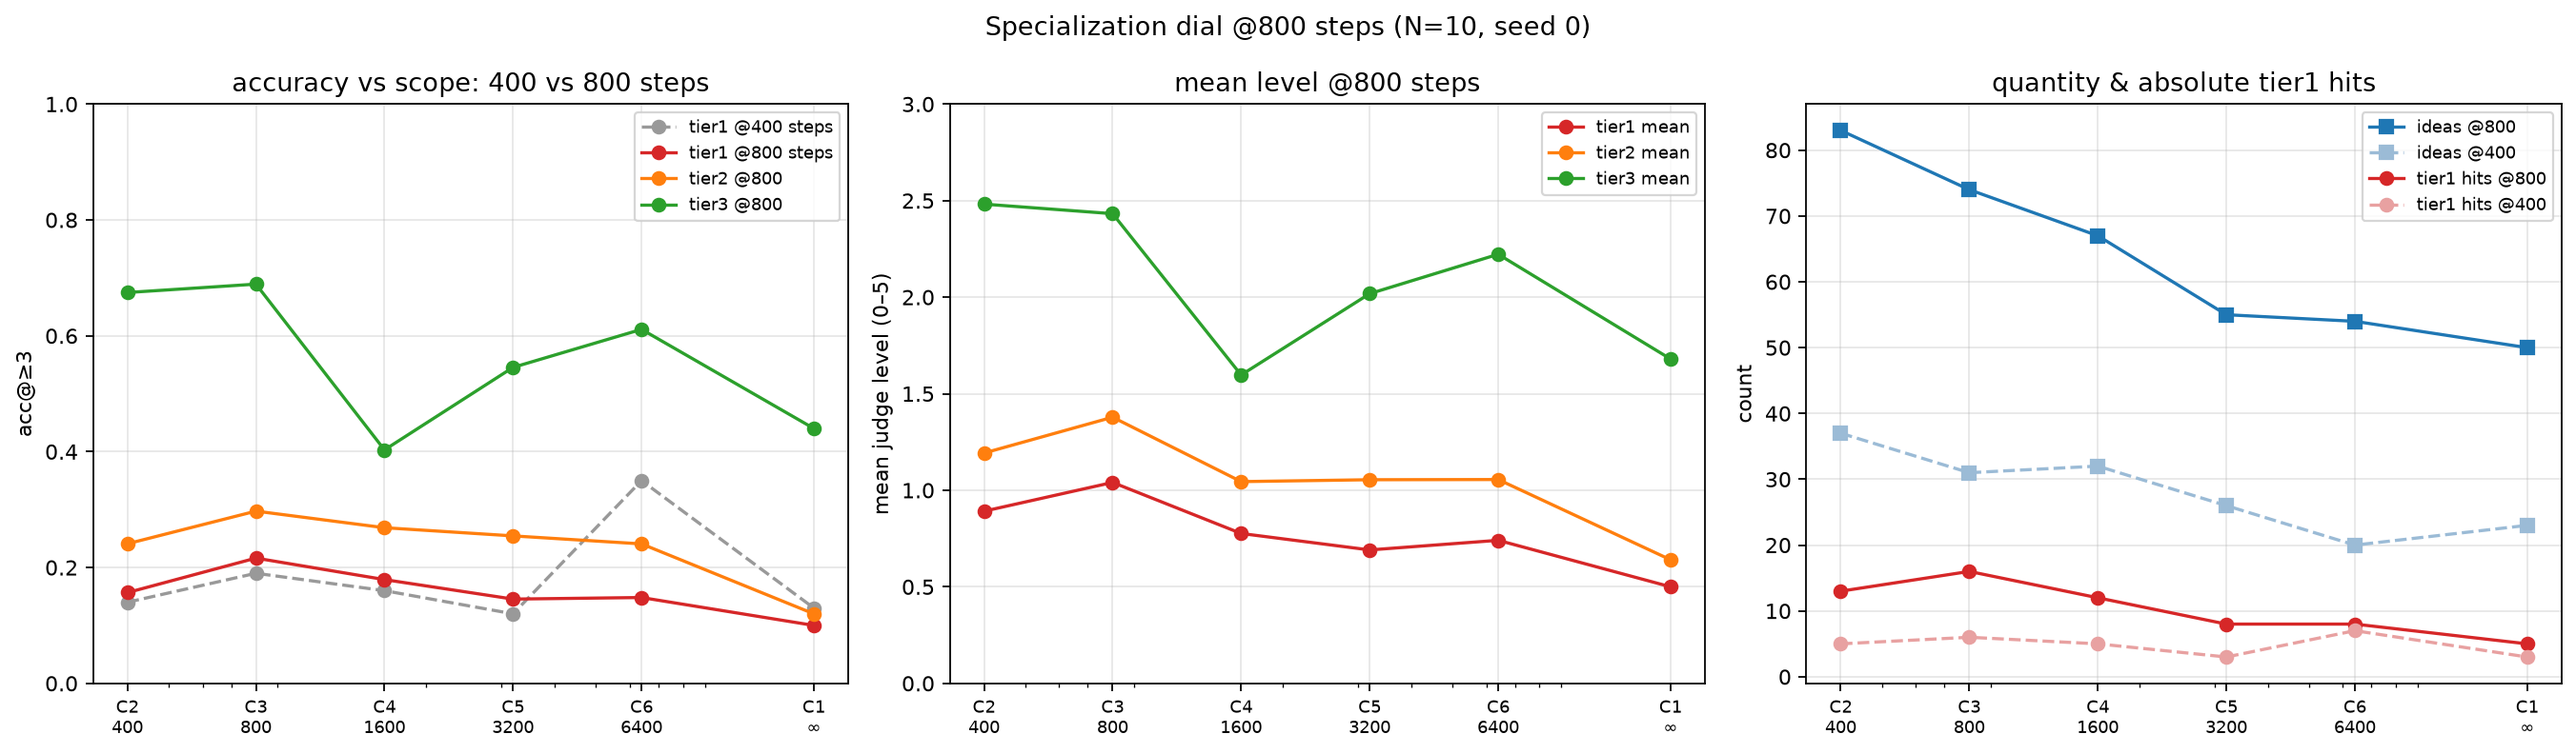
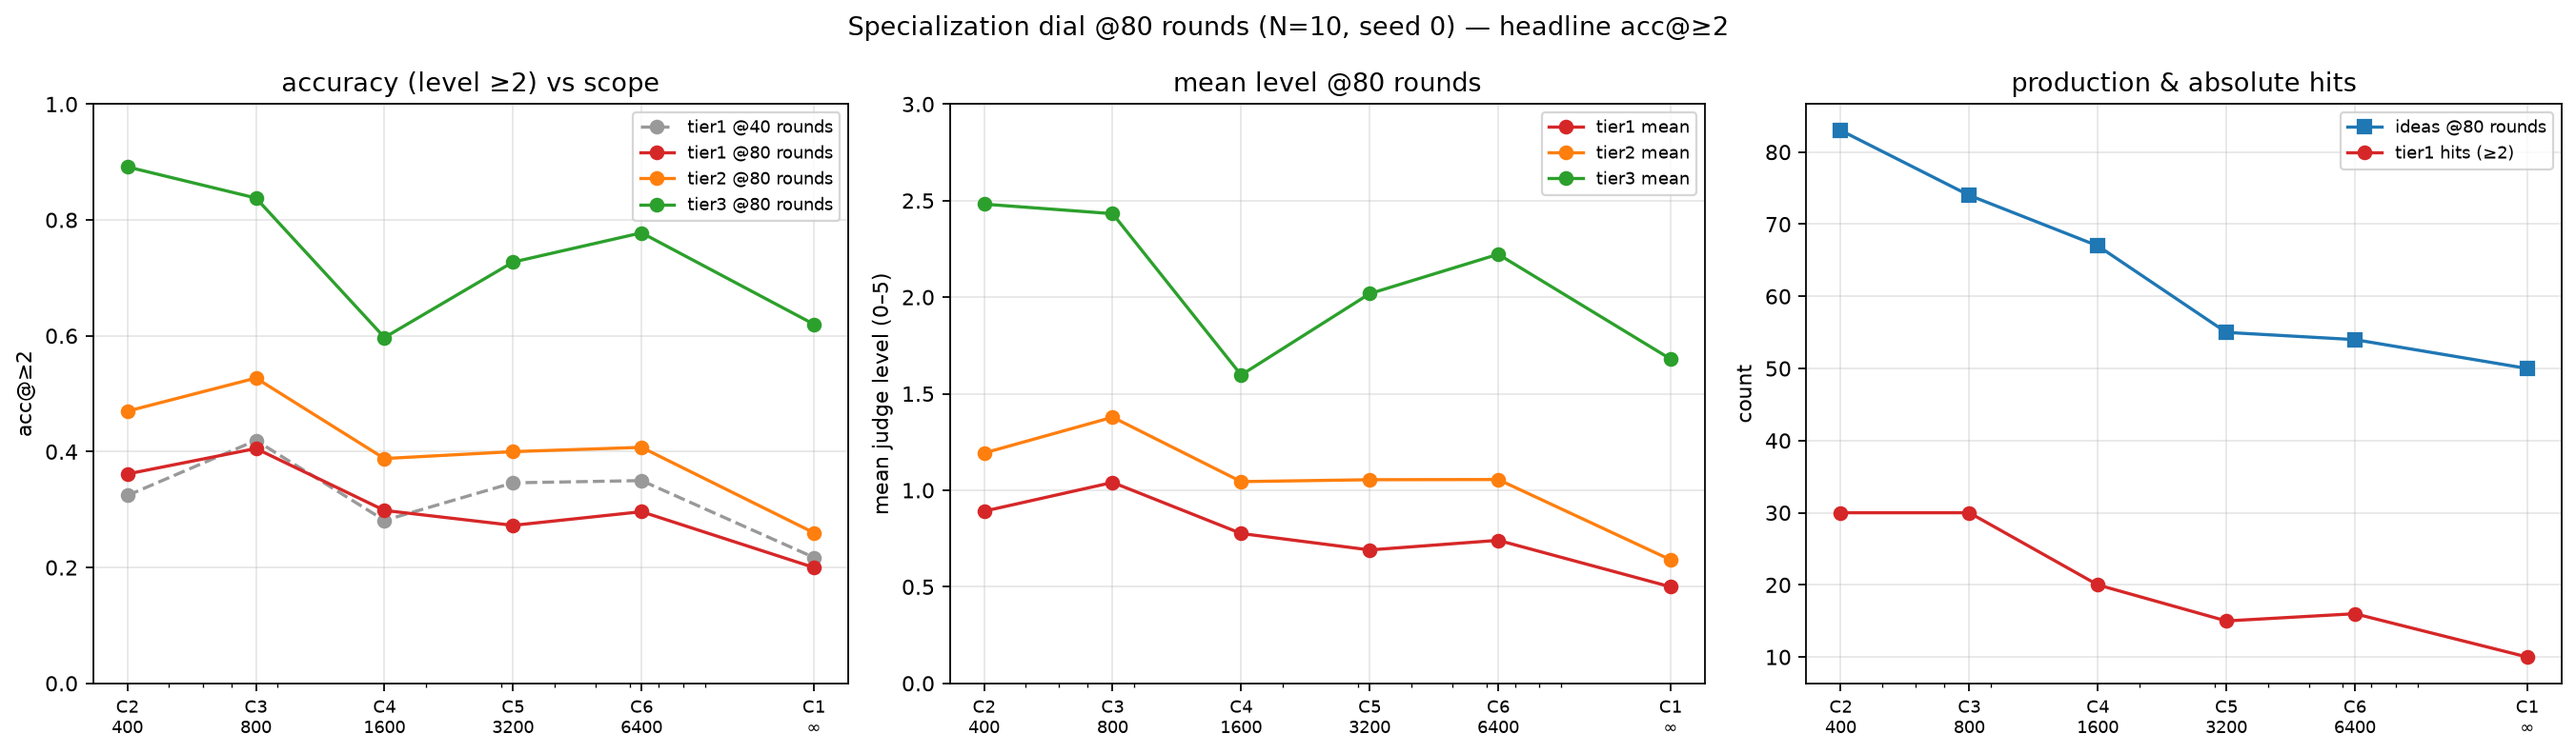
metrics+paper: headline accuracy switched to acc@>=2 (same specific problem)
All metrics recomputed from cached verdicts; dial/scaling figures
regenerated; every number in tables, abstract, and text updated.
Result structure unchanged: peak at m=800 (41% vs 20% generalists),
flat scaling band (21-28%), no-edges advantage (37% vs 20%).

diff --git a/paper/main.tex b/paper/main.tex
@@ -31,7 +31,9 @@ citation network of research ideas distilled from published papers, and the
 (and links) back into it. Agents propose ideas freely; each proposal is
 scored by whether a similar paper published \emph{after} the agent model's
 training cutoff realizes it, verified by literature search and graded by an
-LLM judge on a six-level scale across three venue-recognition tiers. On a
+LLM judge on a six-level scale across three venue-recognition tiers
+(headline accuracy: share of ideas matched at level $\geq 2$, ``same
+specific problem''). On a
 16{,}208-node network built from NeurIPS, ICLR, ICML, and AAAI papers
 (2020--2024), we manipulate a single \emph{specialization dial}: the number
 of corpus papers an agent is allowed to read, from 400 up to the whole
@@ -43,7 +45,7 @@ knob: per-idea accuracy is flat from 10 to 150 agents while absolute hits
 scale linearly, because agents are effectively independent---across 10{,}300
 actions we observe a single cross-agent citation of a generated idea.
 Strikingly, deleting all 80{,}962 citation edges from the initial network
-\emph{helps} generalists (tier-1 accuracy 20\% vs.\ 10\%, with more ideas
+\emph{helps} generalists (tier-1 accuracy 37\% vs.\ 20\%, with more ideas
 produced): agents navigate semantically, not structurally, and the human
 citation topology acts as a distractor rather than a scaffold.
 Consistently, agent-written links have near-constant semantic reach
@@ -99,7 +101,7 @@ per-agent interaction depth.
 \begin{itemize}
 \item \textbf{An inverted-U in idea quality over reading scope
   (Sec.~\ref{sec:dial}).} Per-idea anticipation accuracy peaks at $m=800$
-  (tier-1 acc@$\geq$3 of 22\% vs.\ 10\% for generalists), and every scoped
+  (tier-1 acc@$\geq$2 of 41\% vs.\ 20\% for generalists), and every scoped
   condition beats the unrestricted generalists on every tier. Measured
   region purity shows $m=800$ is a coherent \emph{sub-area neighborhood}
   (own-topic share only 5--60\%), suggesting the sweet spot is ``focused
@@ -111,14 +113,14 @@ per-agent interaction depth.
   same 80 rounds); generalists spend their actions wandering and curating.
 \item \textbf{Team size is a throughput knob, not a quality knob
   (Sec.~\ref{sec:scaling}).} From $N=10$ to $N=150$ generalists at fixed
-  depth, per-idea accuracy is flat (11--17\%) while absolute hits grow
+  depth, per-idea accuracy is flat (21--28\%) while absolute hits grow
   linearly. The mechanism is stark: agents are effectively independent.
   Across all scaling runs (575 ideas, 10{,}300 actions) not one agent
   cited another agent's generated idea.
 \item \textbf{The citation structure is a distractor, not a scaffold
   (Sec.~\ref{sec:noedges}).} Deleting every initial citation edge makes
-  generalists \emph{better}: 60 ideas at 20\% tier-1 accuracy vs.\ 50 at
-  10\% with edges, under otherwise identical conditions. Deprived of
+  generalists \emph{better}: 60 ideas at 37\% tier-1 accuracy vs.\ 50 at
+  20\% with edges, under otherwise identical conditions. Deprived of
   neighbors to wander through, agents commit to pure semantic-search
   navigation (first idea at round 8 instead of 17) --- and spontaneously
   rebuild structure, adding 53 links of their own to the edgeless graph.
@@ -239,9 +241,10 @@ Scores are reported in three cumulative recognition tiers:
 venues plus COLM and RLC) or papers with $\geq 50$ citations;
 \textbf{tier~2} additionally admits CCF-B venues or $\geq 10$ citations;
 \textbf{tier~3} admits any published paper. Per tier we report the mean
-best realization level and acc@$\geq$3, the share of ideas whose best
-match reaches level 3 (same problem and method family)---our headline
-accuracy.
+best realization level and acc@$\geq$2, the share of ideas whose best
+match reaches level 2 (same specific problem)---our headline accuracy;
+higher thresholds ($\geq$3, $\geq$4, $=$5) are recorded in the released
+verdicts.
 
 \section{Experiment 1: the specialization dial}
 \label{sec:dial}
@@ -249,8 +252,8 @@ accuracy.
 \begin{table}[t]
 \caption{The specialization dial: $N{=}10$ agents, 80 rounds, one seed.
 Read scope $m$ is the number of corpus papers each agent may read;
-writes are always free. Each tier cell reports acc@$\geq$3 (share of
-ideas realized at level $\geq 3$ by a post-cutoff paper in the tier;
+writes are always free. Each tier cell reports acc@$\geq$2 (share of
+ideas realized at level $\geq 2$ by a post-cutoff paper in the tier;
 hits in parentheses) and the mean best realization level.}
 \label{tab:dial}
 \begin{center}\small
@@ -259,12 +262,12 @@ hits in parentheses) and the mean best realization level.}
  & \textbf{scope $m$} & \textbf{ideas} & \textbf{tier-1 acc (hits) / mean} &
  \textbf{tier-2 acc / mean} & \textbf{tier-3 acc / mean} \\
 \midrule
-C2 & 400   & \textbf{83} & 16\% (13) / 0.89 & 24\% / 1.19 & 67\% / \textbf{2.48} \\
-C3 & 800   & 74 & \textbf{22\% (16) / 1.04} & \textbf{30\% / 1.38} & \textbf{69\%} / 2.43 \\
-C4 & 1600  & 67 & 18\% (12) / 0.78 & 27\% / 1.04 & 40\% / 1.60 \\
-C5 & 3200  & 55 & 15\% (8) / 0.69  & 25\% / 1.05 & 55\% / 2.02 \\
-C6 & 6400  & 54 & 15\% (8) / 0.74  & 24\% / 1.06 & 61\% / 2.22 \\
-C1 & $\infty$ & 50 & 10\% (5) / 0.50 & 12\% / 0.64 & 44\% / 1.68 \\
+C2 & 400   & \textbf{83} & 36\% (30) / 0.89 & 47\% / 1.19 & \textbf{89\%} / \textbf{2.48} \\
+C3 & 800   & 74 & \textbf{41\% (30) / 1.04} & \textbf{53\% / 1.38} & 84\% / 2.43 \\
+C4 & 1600  & 67 & 30\% (20) / 0.78 & 39\% / 1.04 & 60\% / 1.60 \\
+C5 & 3200  & 55 & 27\% (15) / 0.69  & 40\% / 1.05 & 73\% / 2.02 \\
+C6 & 6400  & 54 & 30\% (16) / 0.74  & 41\% / 1.06 & 78\% / 2.22 \\
+C1 & $\infty$ & 50 & 20\% (10) / 0.50 & 26\% / 0.64 & 62\% / 1.68 \\
 \bottomrule
 \end{tabular}
 \end{center}
@@ -274,10 +277,10 @@ C1 & $\infty$ & 50 & 10\% (5) / 0.50 & 12\% / 0.64 & 44\% / 1.68 \\
 \begin{center}
 \includegraphics[width=\linewidth]{mass-dial-800-summary.png}
 \end{center}
-\caption{The specialization dial at 80 rounds. Left: acc@$\geq$3 per tier
+\caption{The specialization dial at 80 rounds. Left: acc@$\geq$2 per tier
 vs.\ read scope (log axis); the gray dashed line is the tier-1 curve at
-the 40-round midpoint, whose $m{=}6400$ spike (35\% on 20 ideas)
-regressed to 15\% with doubled samples---small-$n$ noise. Middle: mean
+the 40-round midpoint, whose deviations from the 80-round curve
+illustrate small-$n$ noise. Middle: mean
 realization level. Right: idea production and absolute tier-1 hits.}
 \label{fig:dial}
 \end{figure}
@@ -285,18 +288,18 @@ realization level. Right: idea production and absolute tier-1 hits.}
 Table~\ref{tab:dial} and Figure~\ref{fig:dial} give the core result.
 
 \textbf{A mild inverted-U peaking at a sub-area scope.} Tier-1 accuracy
-runs 16\% $\to$ \textbf{22\%} $\to$ 18\% $\to$ 15\% $\to$ 15\% $\to$ 10\%
+runs 36\% $\to$ \textbf{41\%} $\to$ 30\% $\to$ 27\% $\to$ 30\% $\to$ 20\%
 as scope widens; mean realization level tracks the same shape. The
-$m{=}800$ condition is best on rate, absolute hits, and mean level in all
-three tiers. Both the narrow side (fewer recombination options; topics
+$m{=}800$ condition leads on rate and on tier-1/2 mean level, and ties
+$m{=}400$ on absolute tier-1 hits. Both the narrow side (fewer recombination options; topics
 with semantically diffuse regions produced agents with zero output) and
 the broad side (unfocused wandering) underperform the sub-area
 neighborhood.
 
 \textbf{Constraint beats freedom everywhere.} Every scoped condition
 dominates the unrestricted generalists on every tier, by rate and by
-absolute hits. Moreover the generalists' accuracy \emph{fell} from 13\%
-to 10\% when the run was extended from 40 to 80 rounds: the marginal
+absolute hits. Moreover the generalists' accuracy \emph{fell} from 22\%
+to 20\% when the run was extended from 40 to 80 rounds: the marginal
 quality of freely-roaming exploration decays.
 
 \begin{figure}[t]
@@ -335,10 +338,10 @@ Per-idea accuracy is flat; absolute hits scale with output.}
 \textbf{$N$} & \textbf{ideas (per agent)} & \textbf{tier-1 acc (hits) / mean} &
 \textbf{tier-2 acc / mean} & \textbf{tier-3 acc / mean} \\
 \midrule
-10  & 12 (1.2)  & 17\% (2) / 0.67  & 25\% (3) / 1.08  & 50\% (6) / 2.00 \\
-50  & 103 (2.1) & 12\% (12) / 0.55 & 17\% (17) / 0.86 & 49\% (50) / 1.98 \\
-100 & 180 (1.8) & 11\% (20) / 0.61 & 16\% (28) / 0.83 & 44\% (80) / 1.87 \\
-150 & 280 (1.9) & 11\% (32) / 0.66 & 20\% (57) / 0.95 & 50\% (139) / 1.86 \\
+10  & 12 (1.2)  & 25\% (3) / 0.67  & 42\% (5) / 1.08  & 75\% (9) / 2.00 \\
+50  & 103 (2.1) & 21\% (22) / 0.55 & 34\% (35) / 0.86 & 71\% (73) / 1.98 \\
+100 & 180 (1.8) & 24\% (44) / 0.61 & 33\% (60) / 0.83 & 69\% (124) / 1.87 \\
+150 & 280 (1.9) & 28\% (77) / 0.66 & 38\% (105) / 0.95 & 68\% (190) / 1.86 \\
 \bottomrule
 \end{tabular}
 \end{center}
@@ -350,16 +353,16 @@ Per-idea accuracy is flat; absolute hits scale with output.}
 \end{center}
 \caption{Team-size scaling at fixed per-agent depth. Left: per-idea
 accuracy is flat in $N$. Middle: total output and absolute hits grow
-linearly. Right: per-capita output is constant while stigmergic coupling
-(citations of teammates' generated ideas) stays at zero.}
+linearly. Right: per-capita output is constant; stigmergic coupling (citations of
+teammates' generated ideas) is zero throughout (Sec.~\ref{sec:scaling}).}
 \label{fig:scaling}
 \end{figure}
 
 Holding per-agent depth fixed at 30 rounds and growing the team from 10
 to 150 generalists (Table~\ref{tab:scaling}, Figure~\ref{fig:scaling}),
-per-idea accuracy stays in the 11--17\% band on tier~1---the $N{=}10$
-value of 17\% rests on 2 hits and is within noise of the rest---while
-absolute tier-1 hits grow essentially linearly (2, 12, 20, 32). Team
+per-idea accuracy stays in the 21--28\% band on tier~1---the $N{=}10$
+value rests on 3 hits and is within noise of the rest---while
+absolute tier-1 hits grow essentially linearly (3, 22, 44, 77). Team
 size buys throughput, not per-idea quality.
 
 The mechanism is that the agents are, in practice, independent samplers.
@@ -392,9 +395,9 @@ the citation structure improves both.}
  & \textbf{ideas} & \textbf{tier-1 acc (hits) / mean} &
  \textbf{tier-2 acc / mean} & \textbf{tier-3 acc / mean} \\
 \midrule
-no edges & 60 & \textbf{20\% (12) / 0.93} & \textbf{20\% / 1.07} & \textbf{47\% / 1.97} \\
-no jumps & \textbf{63} & 13\% (8) / 0.62 & 16\% / 0.71 & 44\% / 1.92 \\
-C1 (full) & 50 & 10\% (5) / 0.50 & 12\% / 0.64 & 44\% / 1.68 \\
+no edges & 60 & \textbf{37\% (22) / 0.93} & \textbf{43\% / 1.07} & \textbf{75\% / 1.97} \\
+no jumps & \textbf{63} & 24\% (15) / 0.62 & 27\% / 0.71 & 73\% / 1.92 \\
+C1 (full) & 50 & 20\% (10) / 0.50 & 26\% / 0.64 & 62\% / 1.68 \\
 \bottomrule
 \end{tabular}
 \end{center}
@@ -403,8 +406,9 @@ C1 (full) & 50 & 10\% (5) / 0.50 & 12\% / 0.64 & 44\% / 1.68 \\
 If agents used the citation network as a navigational scaffold, deleting
 its edges should hurt. It does the opposite (Table~\ref{tab:noedges}):
 with an edgeless initial graph, the same generalist team produces 20\%
-more ideas at double the tier-1 accuracy---approaching the dial's
-$m{=}800$ optimum---and starts generating at team round 8 instead of 17.
+more ideas at nearly double the tier-1 accuracy (37\% vs.\ 20\%)---
+approaching the dial's $m{=}800$ optimum of 41\%---and starts generating
+at team round 8 instead of 17.
 
 The mechanism follows from Sec.~\ref{sec:structure}: agents discover
 papers by semantic search, not by traversing references. With edges
@@ -421,11 +425,11 @@ corpus's citation logic.
 
 A companion ablation disables the other wandering channel: random jumps
 (\texttt{sample\_frontier}). The effect points the same way but is much
-smaller (Table~\ref{tab:noedges}, middle row: 63 ideas at 13\% vs.\ 50
-at 10\%)---unsurprisingly, since C1 agents only jumped $\sim$20 times
+smaller (Table~\ref{tab:noedges}, middle row: 63 ideas at 24\% vs.\ 50
+at 20\%)---unsurprisingly, since C1 agents only jumped $\sim$20 times
 in 800 actions. The citation neighborhood, not serendipitous jumping,
 is the dominant distractor. We caution that these are single seeded
-runs per arm (12/60 and 8/63 vs.\ 5/50 hits); the directions, the
+runs per arm (22/60 and 15/63 vs.\ 10/50 hits); the directions, the
 mean-level gaps, and the behavioral signatures are mutually consistent,
 but replication is needed before the strongest reading.
 

diff --git a/src/innovation/eval/metrics.py b/src/innovation/eval/metrics.py
@@ -41,7 +41,10 @@ def aggregate_run(verdicts, dup_flags: dict[str, bool]) -> dict:
     for tier in ("tier1", "tier2", "tier3"):
         lv = idea_levels(verdicts, dup_flags, tier)
         n = len(lv)
+        # Headline accuracy is acc@>=2 — "same specific problem" (user
+        # decision 2026-09-02); higher thresholds kept as secondary detail.
         out[tier] = {"mean_level": (sum(lv) / n) if n else 0.0,
+                     "acc_ge2": (sum(1 for x in lv if x >= 2) / n) if n else 0.0,
                      "acc_ge3": (sum(1 for x in lv if x >= 3) / n) if n else 0.0,
                      "acc_ge4": (sum(1 for x in lv if x >= 4) / n) if n else 0.0,
                      "acc_eq5": (sum(1 for x in lv if x == 5) / n) if n else 0.0}
